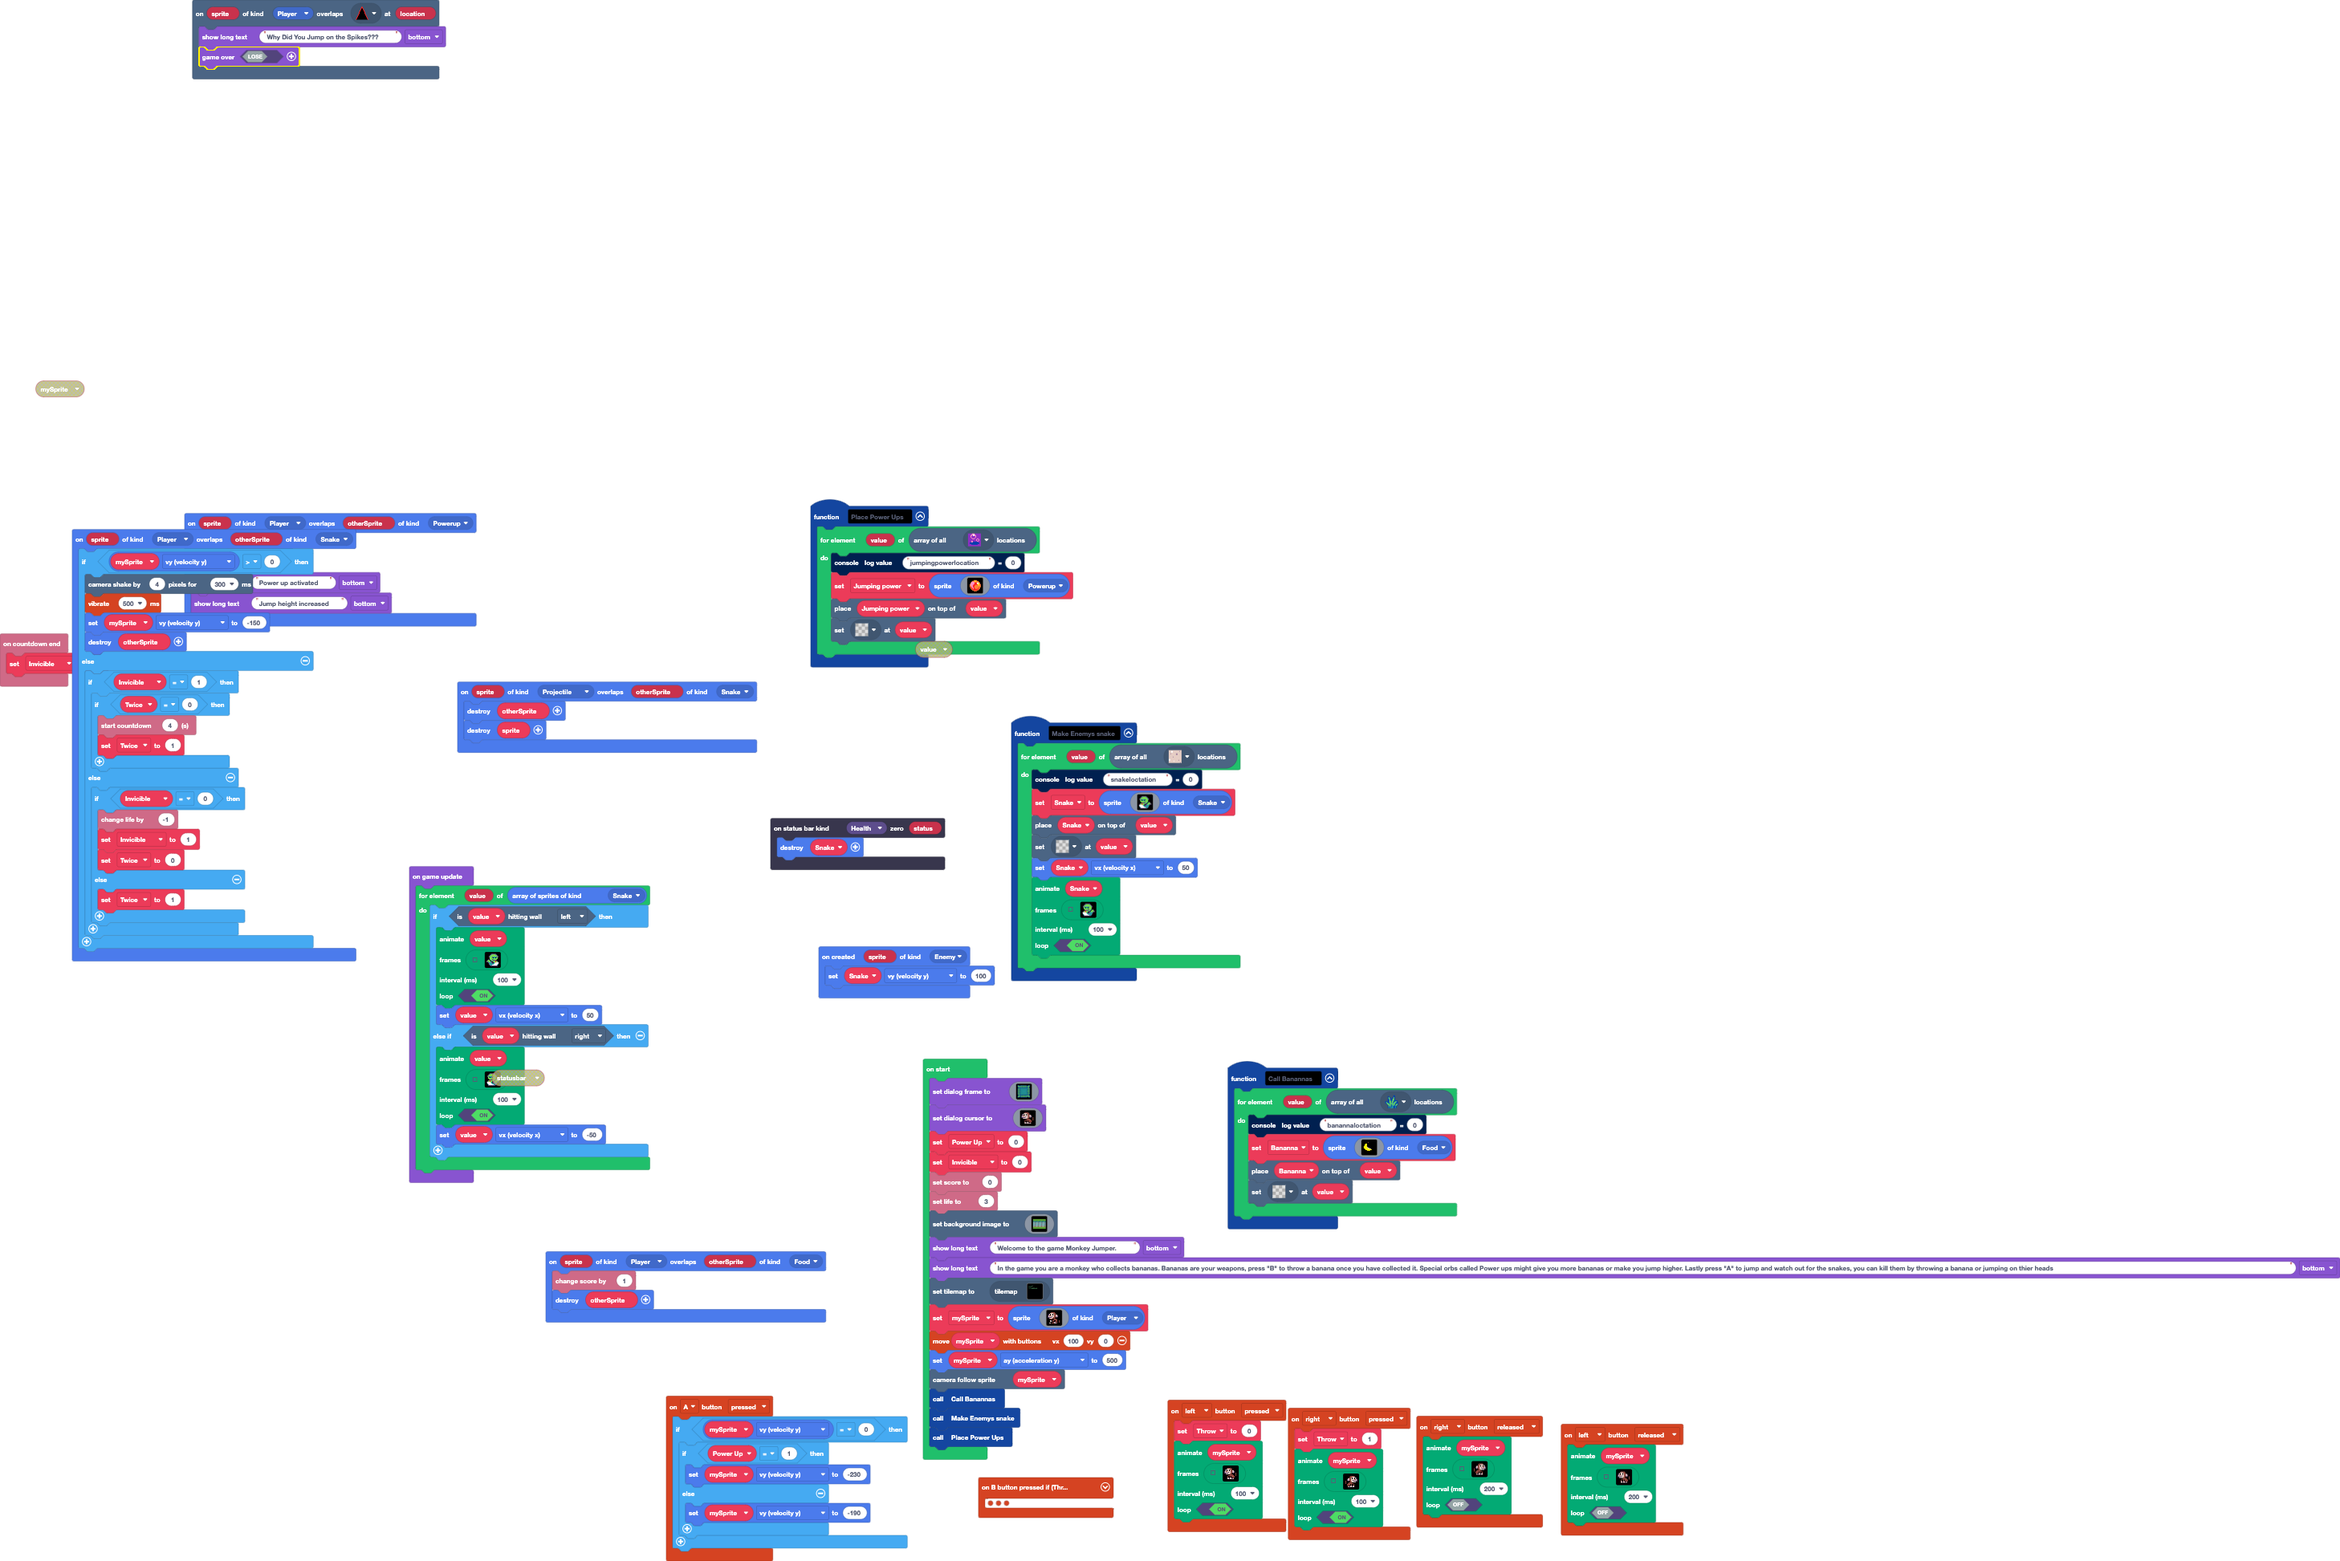
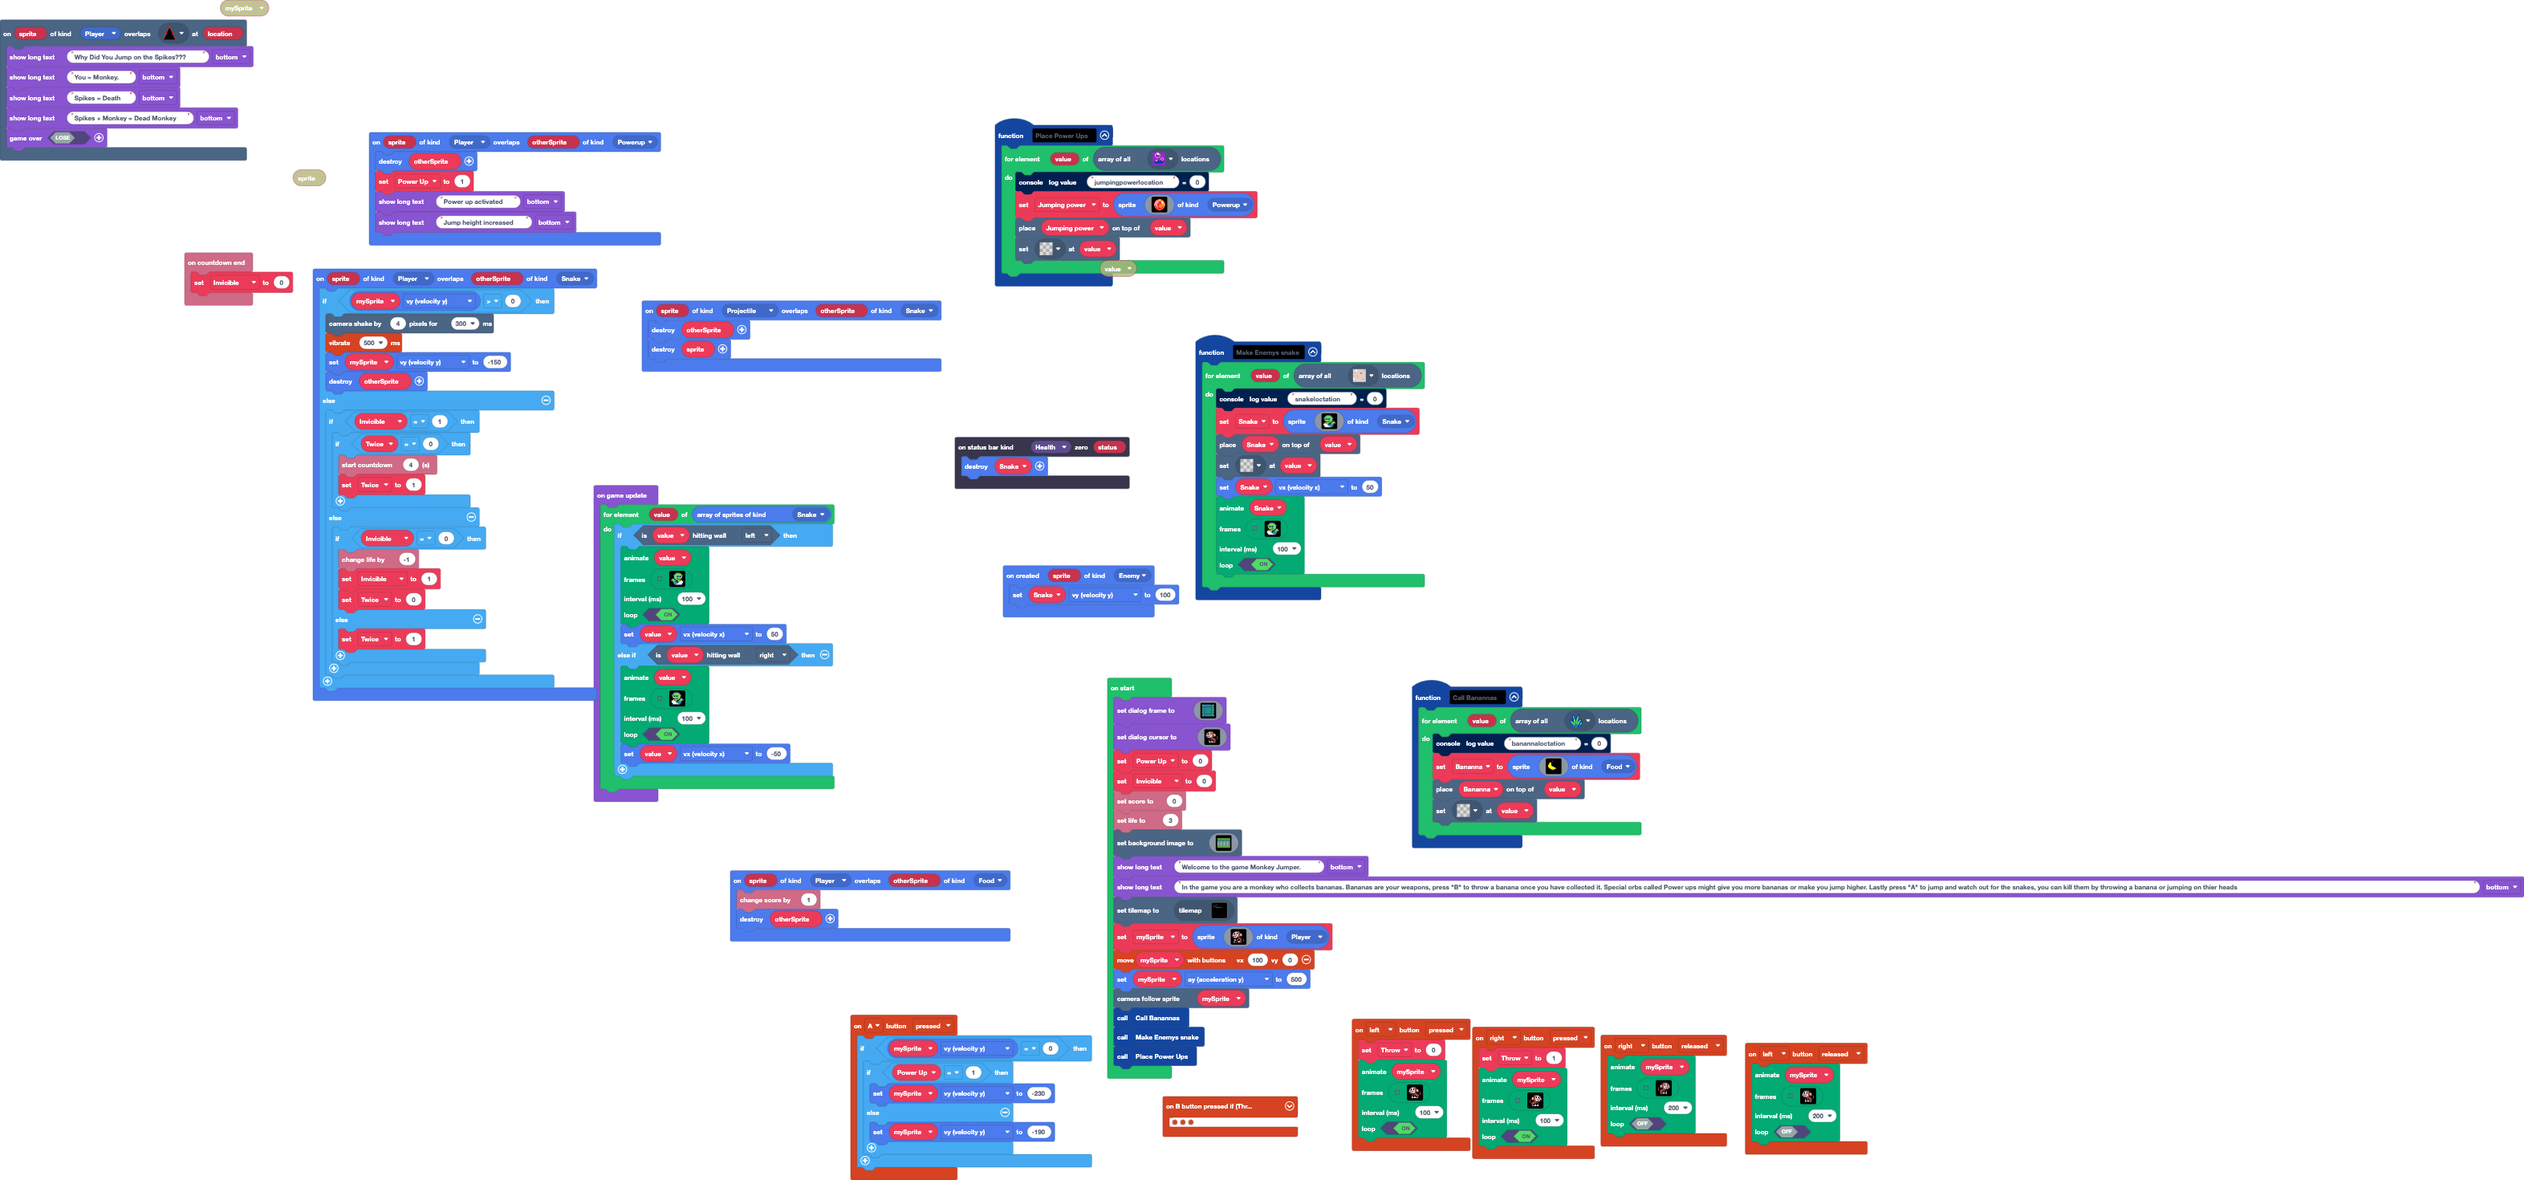
Update main.blocks, main.ts

Changed region(s): [[0.0, 0.0, 1.0, 1.0], [0.3746, 0.0918, 0.4995, 0.2449], [0.0, 0.2449, 0.0312, 0.2755]]

diff --git a/main.ts b/main.ts
@@ -139,6 +139,9 @@ controller.left.onEvent(ControllerButtonEvent.Pressed, function () {
 })
 scene.onOverlapTile(SpriteKind.Player, assets.tile`myTile3`, function (sprite, location) {
     game.showLongText("Why Did You Jump on the Spikes???", DialogLayout.Bottom)
+    game.showLongText("You = Monkey. ", DialogLayout.Bottom)
+    game.showLongText("Spikes = Death", DialogLayout.Bottom)
+    game.showLongText("Spikes + Monkey = Dead Monkey", DialogLayout.Bottom)
     game.over(false)
 })
 controller.right.onEvent(ControllerButtonEvent.Released, function () {
